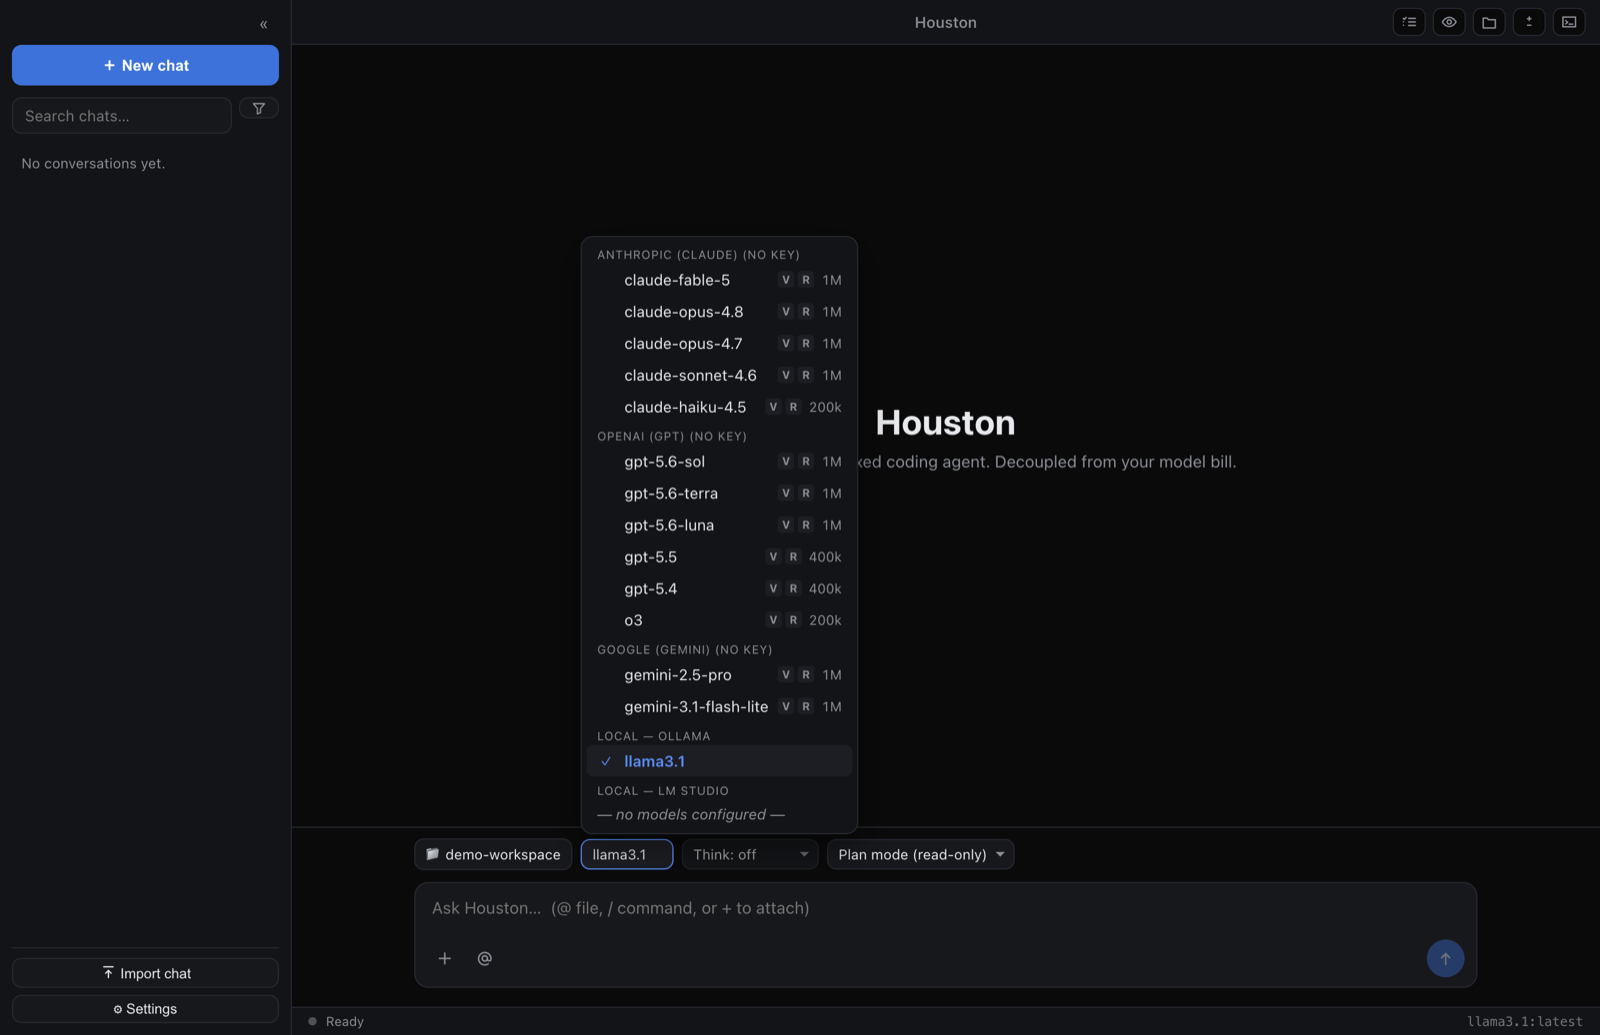
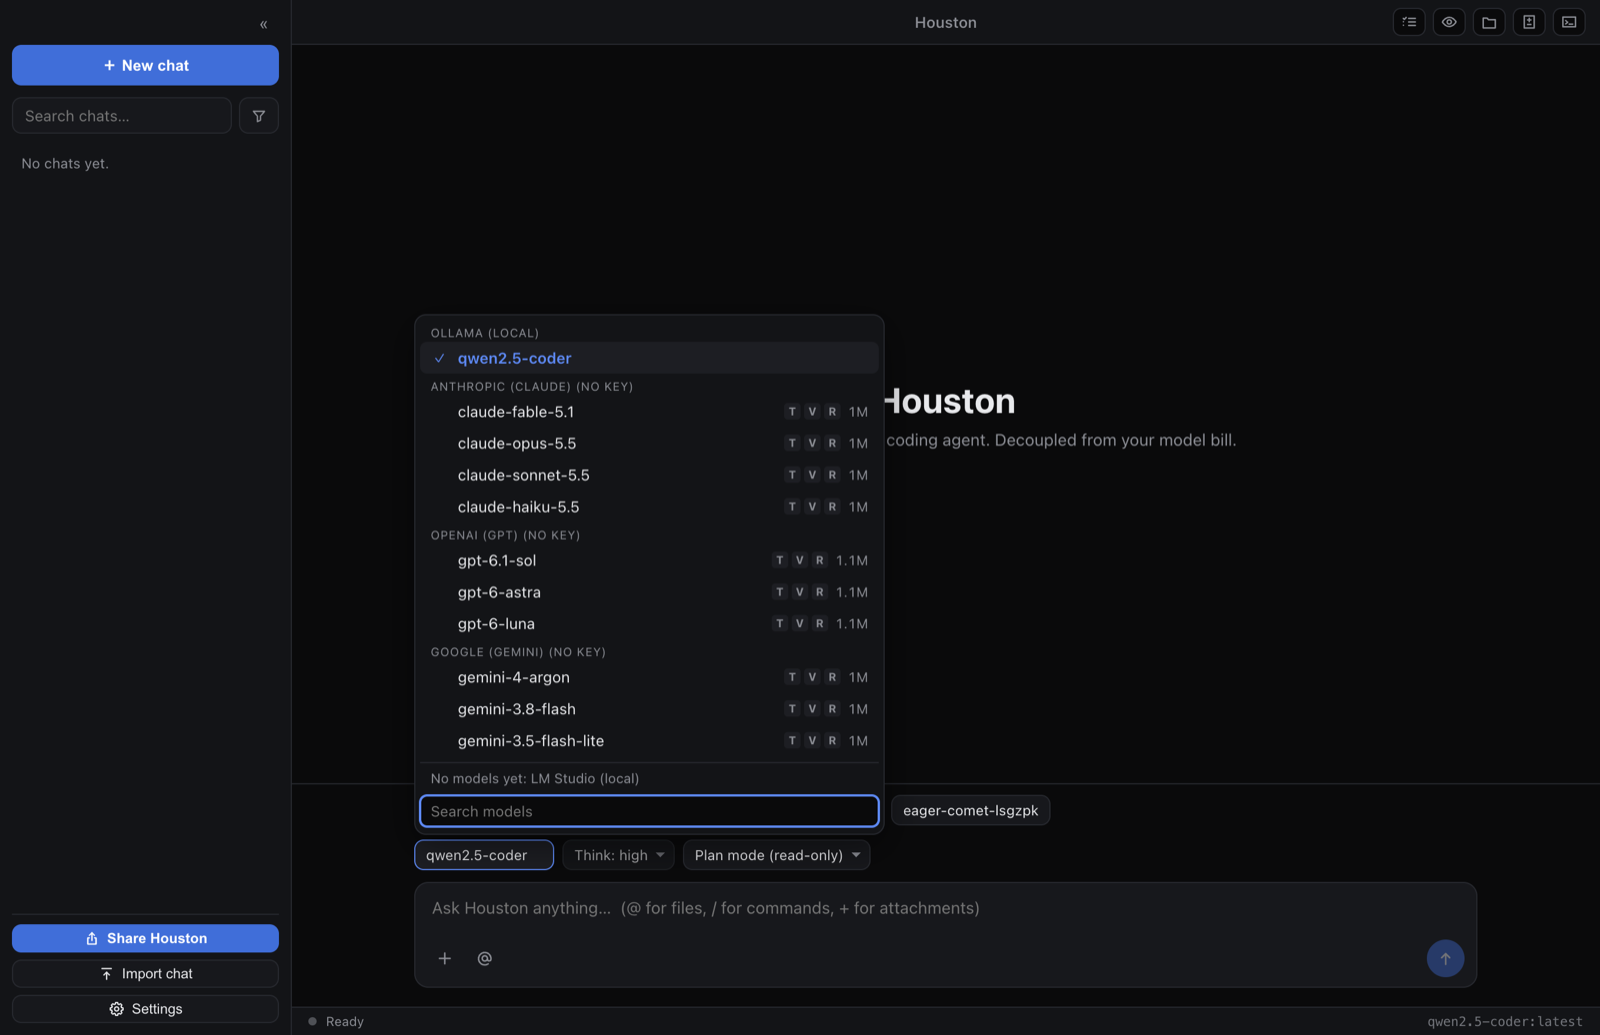
Refresh the landing page screenshot for the current models and UI
The hero shot and social card still showed the model picker from September: Fable 5, Opus 4.8, GPT-5.6, Gemini 2.5, and the old welcome screen. Both themes are re-captured from the current app, so the picker lists the models Houston now ships with (Fable 5.1, Opus 5.5, GPT-6, Gemini 4) with its tool-calling badge. The WebP sizes and og.png are rebuilt from them, and the alt text matches.

capture-screens.mjs now marks onboarding done, so no get-started checklist or tip peeks out from behind the picker, and takes both picker shots before running the demo task, so the light one no longer shows that chat in the sidebar.

diff --git a/website/public/index.html b/website/public/index.html
@@ -179,7 +179,7 @@
               srcset="/assets/screens/models-light-800.webp 800w, /assets/screens/models-light-1200.webp 1200w, /assets/screens/models-light-1600.webp 1600w"
               sizes="(max-width: 1120px) calc(100vw - 48px), 1072px" />
             <img src="/assets/screens/models-light.png" width="1600" height="1035" fetchpriority="high"
-            alt="Houston's model picker open, listing Anthropic Claude, OpenAI GPT, Google Gemini, and local Ollama models, each row showing vision and reasoning capability badges and its context-window size." />
+            alt="Houston's model picker open, listing a local Ollama model and the Anthropic Claude, OpenAI GPT, and Google Gemini models, each row showing tool-calling, vision, and reasoning badges and its context-window size." />
           </picture>
           <figcaption>The model picker: every provider in one list, with each model's context window and capabilities.</figcaption>
         </figure>
